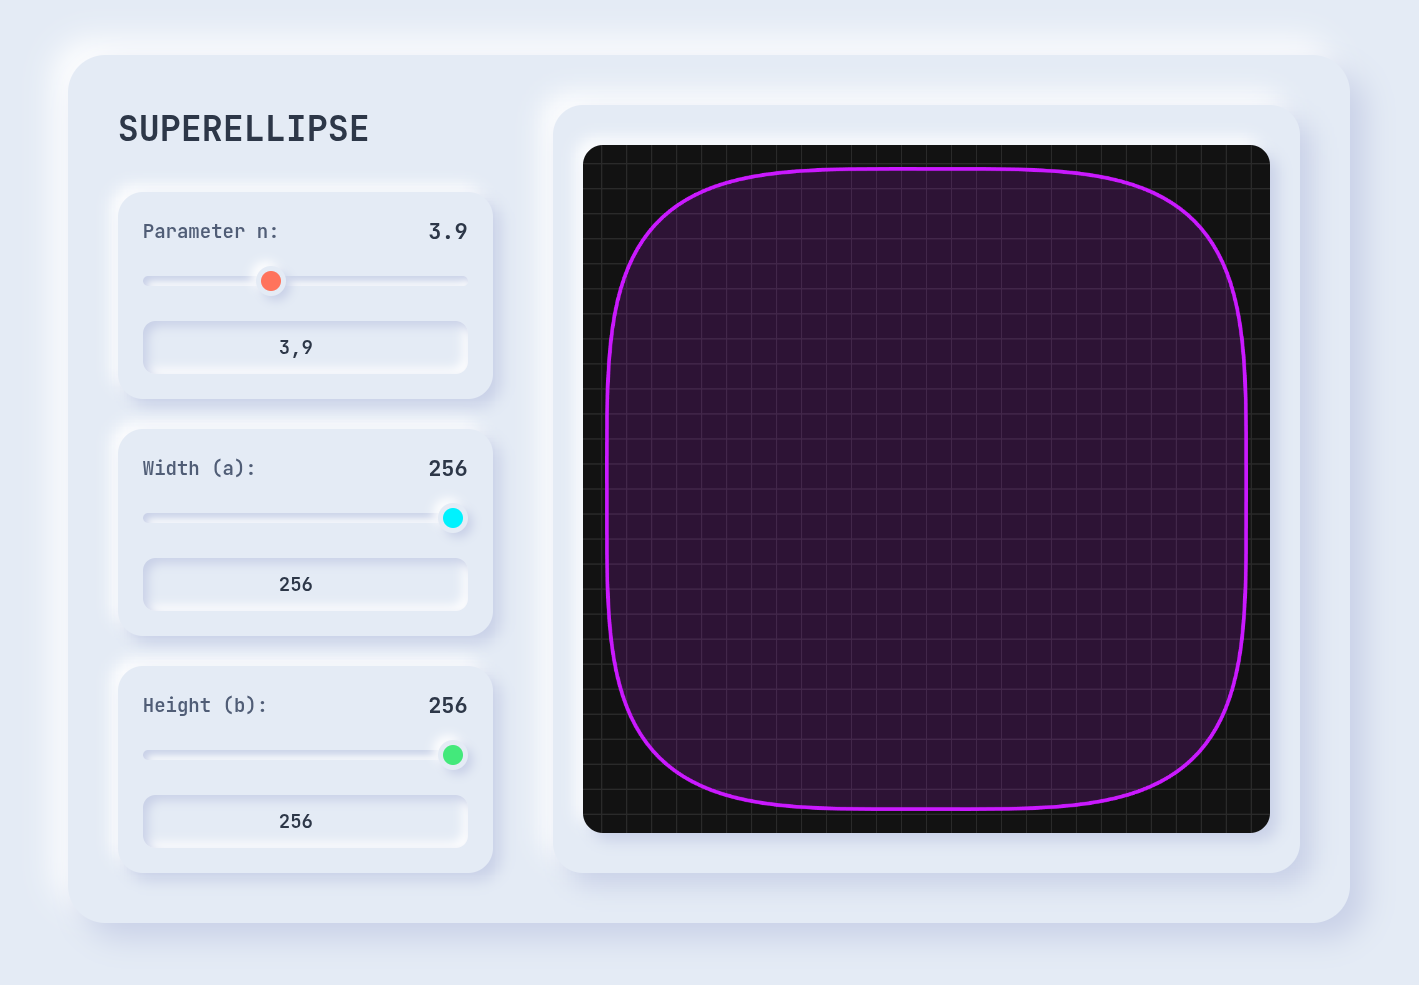
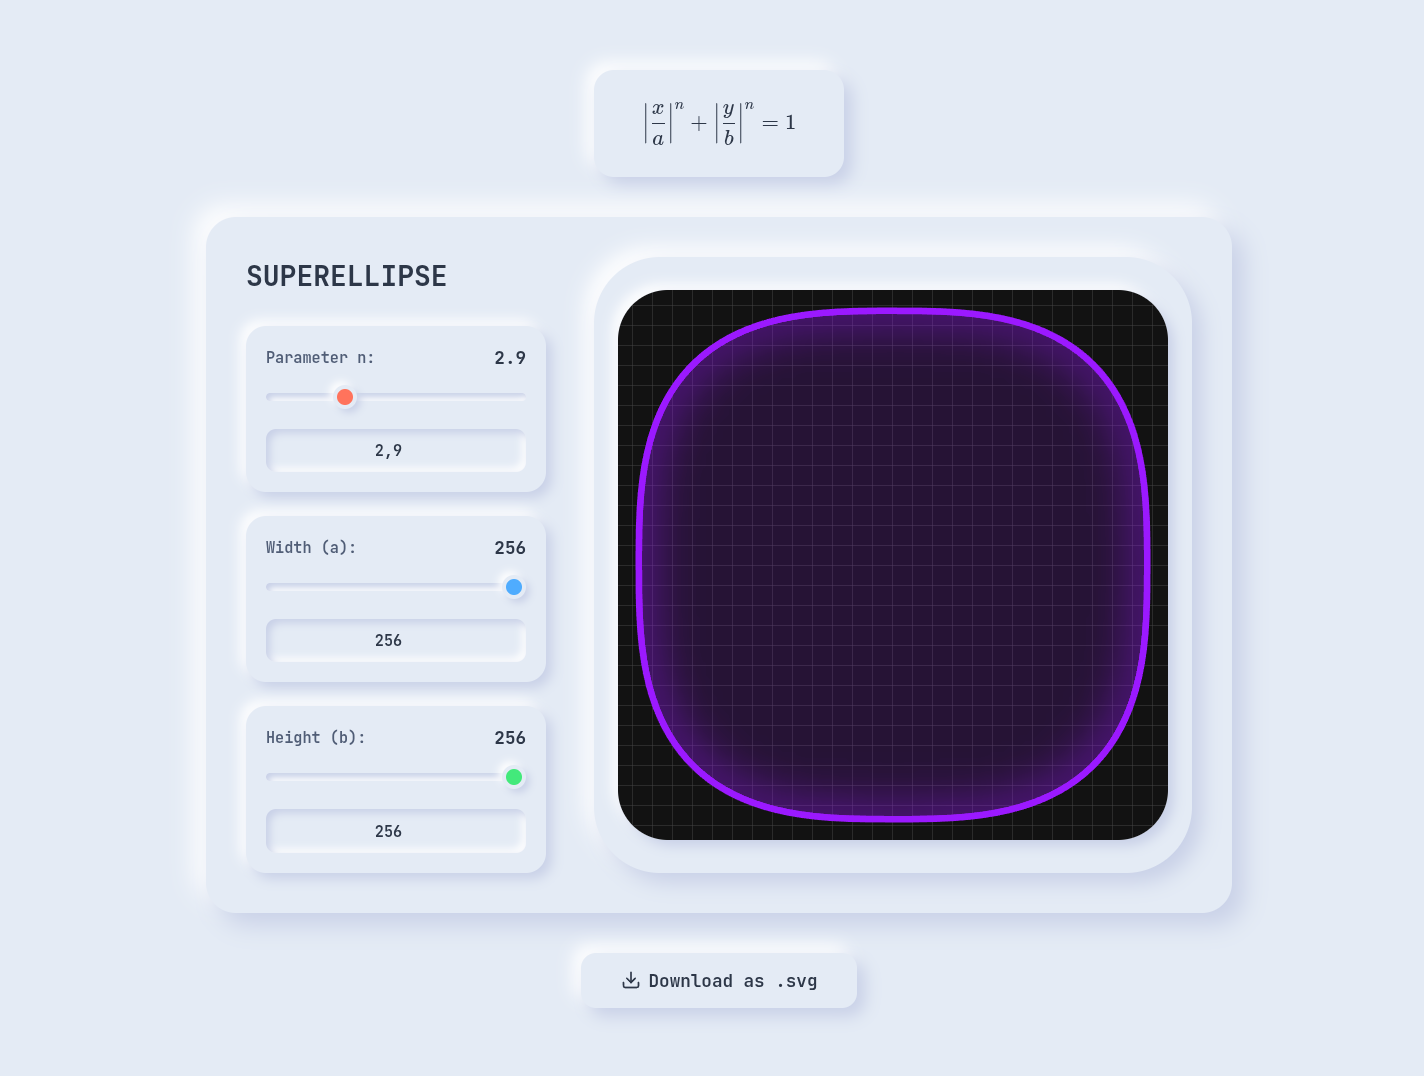
added some glow, buttons and more readme

diff --git a/sketch.js b/sketch.js
@@ -6,15 +6,15 @@ function setup() {
   // Canvas is slightly larger than 512x512 to prevent clipping of the stroke at the edges
   let canvas = createCanvas(550, 550);
   canvas.parent('canvas-container');
-  
+
   nSlider = select('#nSlider');
   aSlider = select('#aSlider');
   bSlider = select('#bSlider');
-  
+
   nInput = select('#nInput');
   aInput = select('#aInput');
   bInput = select('#bInput');
-  
+
   nValue = select('#nValue');
   aValue = select('#aValue');
   bValue = select('#bValue');
@@ -28,6 +28,9 @@ function setup() {
   nInput.input(() => nSlider.value(nInput.value()));
   aInput.input(() => aSlider.value(aInput.value()));
   bInput.input(() => bSlider.value(bInput.value()));
+
+  // Download button
+  select('#downloadBtn').mousePressed(downloadSVG);
 }
 
 function sgn(val) {
@@ -39,9 +42,9 @@ function sgn(val) {
 function draw() {
   background('#121212');
   translate(width / 2, height / 2);
-  
+
   // Draw grid
-  stroke('#2a2a2a');
+  stroke('#454545ff');
   strokeWeight(1);
   let step = 20;
   for (let x = 0; x <= width / 2; x += step) {
@@ -52,36 +55,138 @@ function draw() {
     line(-width / 2, y, width / 2, y);
     line(-width / 2, -y, width / 2, -y);
   }
-  
+
   let nRaw = parseFloat(nInput.value());
   let aRaw = parseFloat(aInput.value());
   let bRaw = parseFloat(bInput.value());
-  
+
   let n = isNaN(nRaw) ? 2.9 : nRaw;
   let a = isNaN(aRaw) ? 256 : aRaw;
   let b = isNaN(bRaw) ? 256 : bRaw;
-  
+
   nValue.html(n.toFixed(1));
   aValue.html(a);
   bValue.html(b);
-  
+
   // Map n from 0.1 to 10 to a hue from 240 (blue) to 360 (red)
   colorMode(HSB, 360, 100, 100, 1);
   let h = map(n, 0.1, 10, 240, 360);
   let cStroke = color(h, 90, 100);
   let cFill = color(h, 90, 100, 0.15);
   colorMode(RGB, 255); // Reset to default
-  
+
   stroke(cStroke);
   strokeWeight(3);
   fill(cFill);
-  
-  beginShape();
-  for (let angle = 0; angle < TWO_PI; angle += 0.05) {
+
+  // Helper to draw the shape path
+  let drawShape = () => {
+    beginShape();
+    for (let angle = 0; angle < TWO_PI; angle += 0.05) {
+      let na = 2 / n;
+      let x = a * Math.pow(Math.abs(cos(angle)), na) * sgn(cos(angle));
+      let y = b * Math.pow(Math.abs(sin(angle)), na) * sgn(sin(angle));
+      vertex(x, y);
+    }
+    endShape(CLOSE);
+  };
+
+  // 1. Fill the shape
+  noStroke();
+  fill(cFill);
+  drawShape();
+
+  // 2. Inner glow using clipping
+  push();
+  beginClip();
+  drawShape();
+  endClip();
+
+  noFill();
+  stroke(cStroke);
+  strokeWeight(10); // Slightly increased to help spread the glow
+
+  // Base glow
+  drawingContext.shadowBlur = 45; // Increased size of the glow
+  drawingContext.shadowColor = cStroke.toString();
+  drawShape();
+
+  // Additional 45% intensity boost
+  let cGlowBoost = color(red(cStroke), green(cStroke), blue(cStroke), 255 * 0.45);
+  drawingContext.shadowColor = cGlowBoost.toString();
+  drawShape();
+  pop();
+
+  // 3. Crisp outline
+  noFill();
+  stroke(cStroke);
+  strokeWeight(3);
+  drawShape();
+}
+
+function downloadSVG() {
+  let nRaw = parseFloat(nInput.value());
+  let aRaw = parseFloat(aInput.value());
+  let bRaw = parseFloat(bInput.value());
+
+  let n = isNaN(nRaw) ? 2.9 : nRaw;
+  let a = isNaN(aRaw) ? 256 : aRaw;
+  let b = isNaN(bRaw) ? 256 : bRaw;
+
+  // Create superellipse path
+  let d = "";
+  for (let angle = 0; angle <= TWO_PI + 0.05; angle += 0.05) {
     let na = 2 / n;
     let x = a * Math.pow(Math.abs(cos(angle)), na) * sgn(cos(angle));
     let y = b * Math.pow(Math.abs(sin(angle)), na) * sgn(sin(angle));
-    vertex(x, y);
+
+    // Offset to center in SVG canvas
+    let cx = width / 2 + x;
+    let cy = height / 2 + y;
+
+    if (angle === 0) {
+      d += `M ${cx.toFixed(2)} ${cy.toFixed(2)} `;
+    } else {
+      d += `L ${cx.toFixed(2)} ${cy.toFixed(2)} `;
+    }
   }
-  endShape(CLOSE);
+  d += "Z";
+
+  // Re-calculate color
+  colorMode(HSB, 360, 100, 100, 1);
+  let h = map(n, 0.1, 10, 240, 360);
+  let cStroke = color(h, 90, 100);
+  let cFill = color(h, 90, 100, 0.15);
+  colorMode(RGB, 255);
+
+  // Generate grid lines
+  let gridLines = "";
+  let step = 20;
+  for (let x = 0; x <= width / 2; x += step) {
+    gridLines += `<line x1="${width / 2 + x}" y1="0" x2="${width / 2 + x}" y2="${height}" stroke="#454545" stroke-width="1"/>\n`;
+    gridLines += `<line x1="${width / 2 - x}" y1="0" x2="${width / 2 - x}" y2="${height}" stroke="#454545" stroke-width="1"/>\n`;
+  }
+  for (let y = 0; y <= height / 2; y += step) {
+    gridLines += `<line x1="0" y1="${height / 2 + y}" x2="${width}" y2="${height / 2 + y}" stroke="#454545" stroke-width="1"/>\n`;
+    gridLines += `<line x1="0" y1="${height / 2 - y}" x2="${width}" y2="${height / 2 - y}" stroke="#454545" stroke-width="1"/>\n`;
+  }
+
+  // Construct SVG
+  let svgContent = `<svg xmlns="http://www.w3.org/2000/svg" width="${width}" height="${height}" viewBox="0 0 ${width} ${height}">
+    <rect width="100%" height="100%" fill="#121212"/>
+    ${gridLines}
+    <!-- Base shape without glow -->
+    <path d="${d}" fill="${cFill.toString()}" stroke="${cStroke.toString()}" stroke-width="3"/>
+  </svg>`;
+
+  // Trigger download
+  let blob = new Blob([svgContent], { type: "image/svg+xml" });
+  let url = URL.createObjectURL(blob);
+  let link = document.createElement("a");
+  link.href = url;
+  link.download = `superellipse_n${n.toFixed(1)}.svg`;
+  document.body.appendChild(link);
+  link.click();
+  document.body.removeChild(link);
+  URL.revokeObjectURL(url);
 }

diff --git a/index.html b/index.html
@@ -9,6 +9,9 @@
   <style>
     @import url('https://fonts.googleapis.com/css2?family=JetBrains+Mono:wght@400;500;600;700&display=swap');
 
+    /* KaTeX for mathematical formulas */
+    @import url('https://cdn.jsdelivr.net/npm/katex@0.16.9/dist/katex.min.css');
+
     :root {
       --bg-color: #e4ebf5;
       --shadow-light: #ffffff;
@@ -182,10 +185,65 @@
       box-shadow: 6px 6px 12px var(--shadow-dark),
         -6px -6px 12px var(--shadow-light);
     }
+
+    .equation-box {
+      background: var(--bg-color);
+      padding: 1rem 3rem;
+      border-radius: 20px;
+      box-shadow: 8px 8px 16px var(--shadow-dark),
+        -8px -8px 16px var(--shadow-light);
+      margin-bottom: 2.5rem;
+      color: var(--text-dark);
+      display: flex;
+      align-items: center;
+      justify-content: center;
+    }
+
+    .download-btn {
+      margin-top: 2.5rem;
+      padding: 1rem 2.5rem;
+      background: var(--bg-color);
+      border: none;
+      border-radius: 15px;
+      color: var(--text-dark);
+      font-family: 'JetBrains Mono', monospace;
+      font-size: 1.1rem;
+      font-weight: 600;
+      cursor: pointer;
+      box-shadow: 8px 8px 16px var(--shadow-dark),
+        -8px -8px 16px var(--shadow-light);
+      transition: all 0.2s ease;
+      display: flex;
+      align-items: center;
+      gap: 0.5rem;
+    }
+
+    .download-btn:hover {
+      color: var(--accent);
+      box-shadow: 4px 4px 8px var(--shadow-dark),
+        -4px -4px 8px var(--shadow-light);
+    }
+
+    .download-btn:active {
+      box-shadow: inset 4px 4px 8px var(--shadow-dark),
+        inset -4px -4px 8px var(--shadow-light);
+    }
+
+    /* Adjust KaTeX font size */
+    .equation-box .katex {
+      font-size: 1.4em;
+    }
   </style>
+  <script defer src="https://cdn.jsdelivr.net/npm/katex@0.16.9/dist/katex.min.js"></script>
+  <script defer src="https://cdn.jsdelivr.net/npm/katex@0.16.9/dist/contrib/auto-render.min.js"
+    onload="renderMathInElement(document.body);"></script>
 </head>
 
 <body>
+
+  <div class="equation-box">
+    $$ \left| \frac{x}{a} \right|^n + \left| \frac{y}{b} \right|^n = 1 $$
+  </div>
 
   <div class="container">
     <div class="controls">
@@ -213,6 +271,16 @@
 
     <div id="canvas-container"></div>
   </div>
+
+  <button id="downloadBtn" class="download-btn">
+    <svg width="20" height="20" viewBox="0 0 24 24" fill="none" stroke="currentColor" stroke-width="2"
+      stroke-linecap="round" stroke-linejoin="round">
+      <path d="M21 15v4a2 2 0 0 1-2 2H5a2 2 0 0 1-2-2v-4"></path>
+      <polyline points="7 10 12 15 17 10"></polyline>
+      <line x1="12" y1="15" x2="12" y2="3"></line>
+    </svg>
+    Download as .svg
+  </button>
 
   <script src="sketch.js"></script>
 </body>

diff --git a/README.md b/README.md
@@ -3,3 +3,18 @@
 My initial testrun of Google Antigravity. Drawing a superellipse using P5js.
 
 ![screenshot](screenshot.png)
+
+This code is partly hand-written and AI generated. Please use AS-IS.
+No garantees of correctness. Use at your own risk.
+
+The super ellipse formula is given by:
+|x/a|^n + |y/b|^n = 1
+
+Where n > 0 is the parameter that controls the shape of the ellipse.
+a and b are the semi-major and semi-minor axes of the ellipse.
+
+Made famous by the Danish architect Piet Hein, and the Swedish mathematician H. G. Forder. Used in the construction of the new Parliament house in Stockholm. The equation was first discovered by the French mathematician Alexis Clairaut in 1742, but it was not widely used until it was rediscovered by Piet Hein in the 1950s.
+
+The super ellipse table top design by Piet Hein is a classic example of how this shape can be used to create functional art. Another well known example of superellipse is the shape of the pedestrian street the Sergels Torg in Stockholm.
+
+
